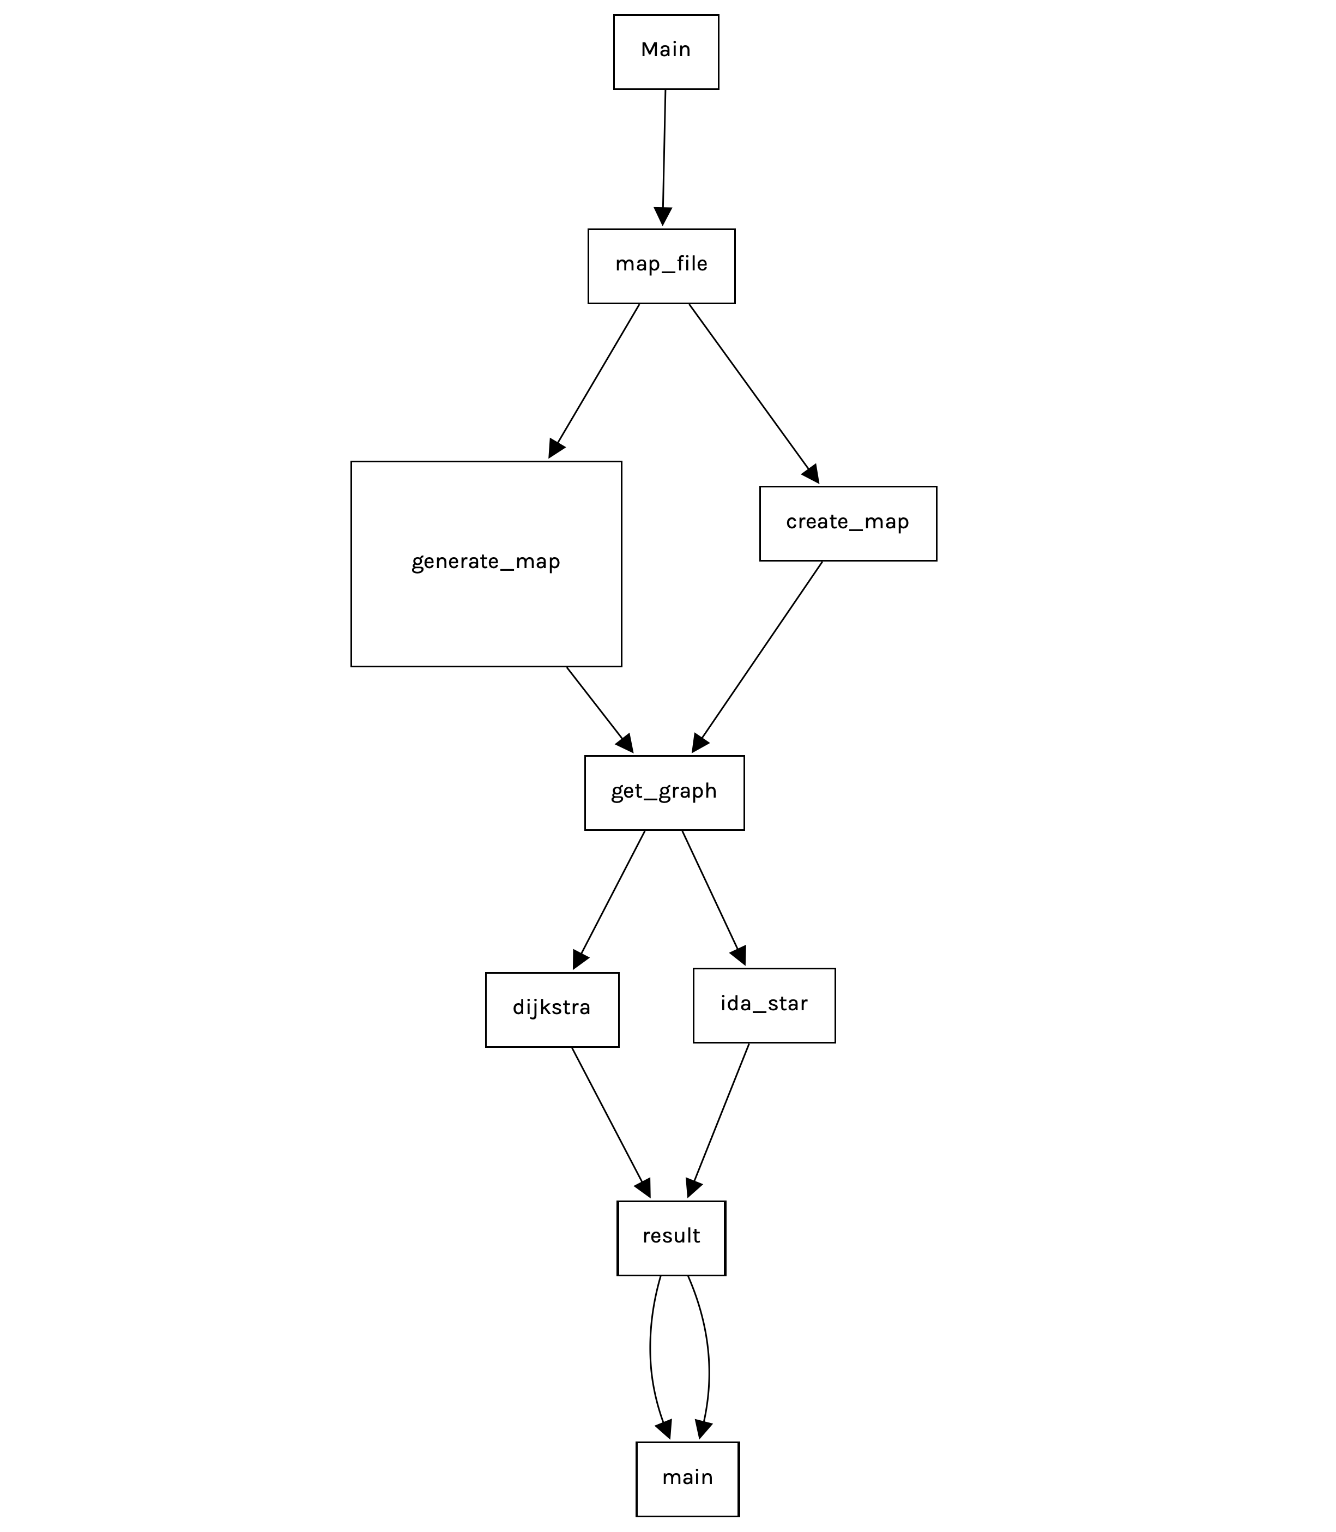
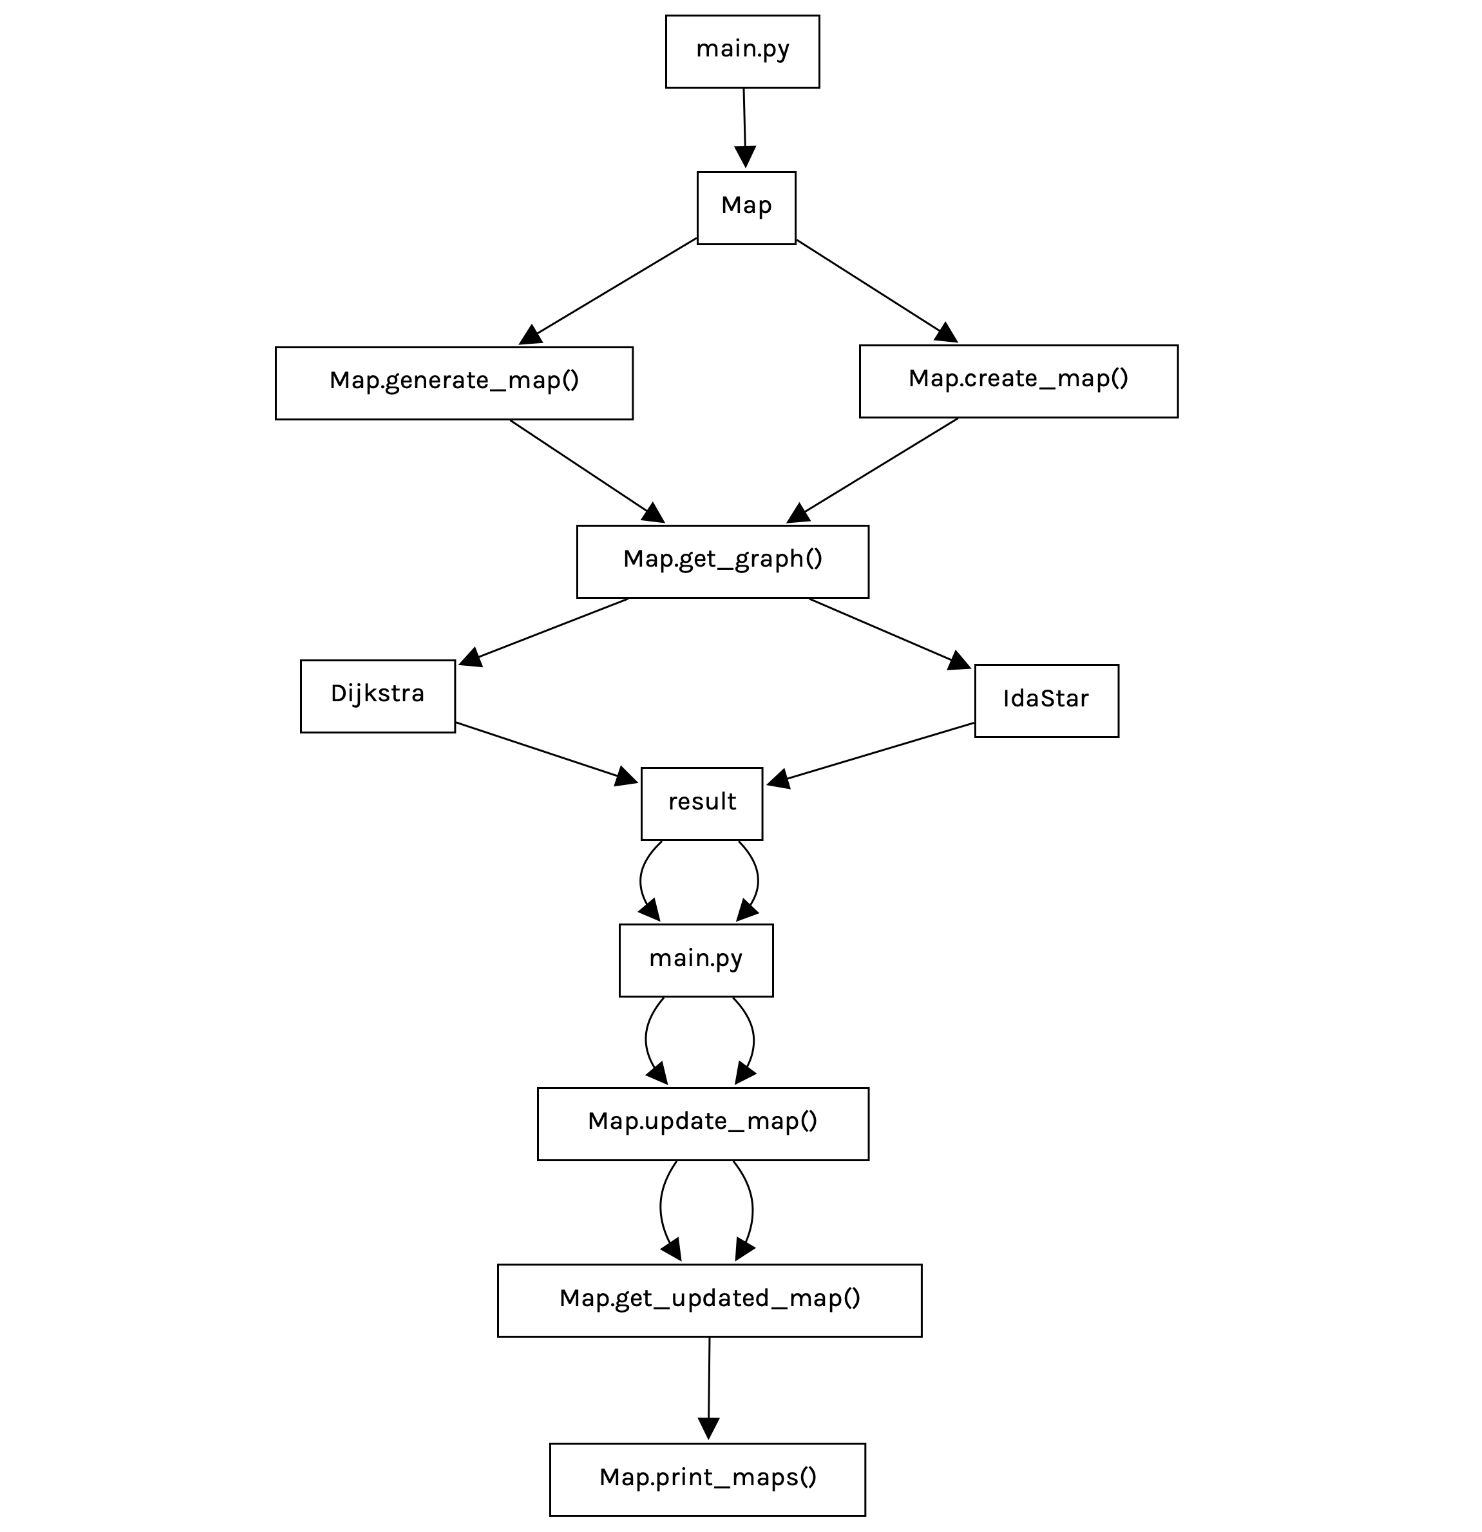
dokumentointi

diff --git a/dokumentointi/toteutusdokumentti.md b/dokumentointi/toteutusdokumentti.md
@@ -6,14 +6,45 @@
 - main-funktio kysyy käyttäjältä mitä karttaa vertailussa käytetään
 - main-funktio hakee map_file-luokasta käyttäjän valitsemaa karttaa vastaavan Map-olion sekä tulostaa kuvan kartasta
 - main-funktio kysyy käyttäjältä reitin aloitus- ja loppupisteen: ensin rivinumeron, jonka jälkeen käyttäjä voi valita rivin vapaana olevista pisteistä haluamansa
-- main-funktio luo Dijkstra-olion, jonka syötteenä on kartan verkko sekä kartan leveys, sekä IdaStar-olion, jonka syötteenä on kartan verkko
-- main-funktio kutsuu ida_star- ja dijkstra-funktiota, jotka molemmat palauttavat joko lyhimmän reitin pituuden tai tiedon siitä, että reittiä ei ole olemassa
-- main-funktio tulostaa mahdolliset lyhimmät reitit ja algoritmien käyttämän ajan
+- main-funktio luo Dijkstra- ja IDA*-oliot, joiden molempien syötteenä on kartan verkko, aloitus- ja lopetussolmu sekä kartan leveys
+- main-funktio kutsuu ida_star- ja dijkstra-funktiota, jotka molemmat palauttavat joko lyhyimmän reitin sekä sen pituuden, tai tiedon siitä, että reittiä ei ole olemassa
+- main-funktio tulostaa reittien pituuden, sekä reitit valitussa kartassa. Tämä haetaan map_file-luokasta. Vaihtoehtoisesti tulostaa tiedon siitä, ettei reittiä ole. Molemmissa tapauksissa tulostetaan algoritmien käyttämät ajat ja vertaillaan näitä toisiinsa
 
-## Saavutetut aika- ja tilavaativuudet
+## Aika- ja tilavaativuudet
+
+Dijkstra
+> Aikavaativuus: 
+> O(|E| + |V| log |V|), jossa V on solmujen lukumäärä ja E on kaarien lukumäärä
+>
+> Tilavaativuus: 
+> O(V^2), jossa V on solmujen lukumäärä
+
+IDA*
+> Aikavaativuus: 
+> IDA*-algoritmille ei ole yksiselitteistä parasta aikavaativuutta, vaan se riippuu painotetun verkon tyypistä ja heurestiikasta.
+>
+> Tilavaativuus:
+> O(d), jossa d on reitin pituus
 
 ## Suorituskyky- ja O-analyysivertailu
 
+| kartta | solmujen määrä | O(|E| + |V| log |V|)| Dijkstran 10:n toiston keskiarvo| IDA*:n 10:n toiston keskiarvo |
+|:------:|:--------------:|:-------------------:|:-------------------------------:|:-----------------------------:|
+|4x4     |16              |80                   |0.0001039                        |0.0002835                      |
+|8x8     |64              |410                  |0.0001215                        |0.0003617                      |
+|16x16   |256             |2350                 |0.0009472                        |0.0551402                      |
+|32x32   |1024            |11884                |0.0089881                        |1.1370921                      |
+|64x64   |4096            |59510                |0.1597089                        |0.0280987                      |
+
+Toistot tehtiin ohjelmassa olevilla kartoilla niiden ensimmäisestä vapaasta solmusta niiden viimeisimpään vapaaseen solmuun. Keskiarvojen mukaan Dijkstra on kaikilla syötteillä nopeampi, paitsi 64x64-kartalla, eli kun solmuja on 4096. Tuloksissa täytyy kuitenkin ottaa huomioon, että koska keskiarvomittaukset tehtiin vain tietyn kartan perusteella, voisivat ne olla erilaiset muilla kartoilla mitattuna.
+
 ## Työn mahdolliset puutteet ja parannusehdotukset
+Työhön voisi etsiä enemmän monipuolisempia karttoja. Myös verkon luomisen kartan pohjalta voisi toteuttaa tehokkaammin.
+Graafisesta puolesta saisi tehtyä siistimmän ja käyttäjäystävällisemmän.
+Työhön voisi myös lisätä ominaisuuden, jossa se käy reitin läpi automaattisesti n-kertaa ja laskee näistä molemmille algoritmeille niiden käyttämän aikojen keskiarvon, jolloin vertailu olisi astetta laadukkaampaa.
 
 ## Lähteet
+
+IDA*: https://en.wikipedia.org/wiki/Iterative_deepening_A*
+IDA* heurestiikka: https://www.growingwiththeweb.com/2012/06/a-pathfinding-algorithm.html 
+Dijkstra: https://en.wikipedia.org/wiki/Dijkstra%27s_algorithm

diff --git a/dokumentointi/maarittelydokumentti.md b/dokumentointi/maarittelydokumentti.md
@@ -4,13 +4,15 @@
 - Ohjelmointikieli: Python
 - Opinto-ohjelma: Tietojenkäsittelytieteen kandi
 
-Toteutan ohjelman, joka löytää verkon lyhyimmän reitin pisteestä toiseen kahdella eri algoritmillä. Kartassa voidaan liikkua sivusuuntiin sekä diagonaalisesti. Vertailen tässä Dijsktra ja IDA* algoritmia. Käytän ohjelmassa Movin AI LAb:in sivuilta ladattuja [MAPF-karttoja](https://www.movingai.com/benchmarks/mapf/index.html)
+Toteutan ohjelman, joka löytää verkon lyhyimmän reitin pisteestä toiseen kahdella eri algoritmillä. Kartassa voidaan liikkua sivusuuntiin sekä diagonaalisesti. Vertailen tässä Dijsktra ja IDA* algoritmia. Käytän ohjelmassa Movin AI LAb:in sivuilta ladattuja [MAPF-karttoja](https://www.movingai.com/benchmarks/mapf/index.html) sekä muutamia samassa muodossa olevia itseluotuja karttoja. 
 
 ## Algoritmit
 
 Valitsin Dijkstran algortimin, koska minulla on tästä jo etukäteen tietoa. IDA*-algoritmin valitsin, koska se vaikutti mielenkiintoiselta, sekä tarpeeksi erilaiselta Dijkstraan verrattuna. Näin siis suoritusteen vertailussakin on jotain järkeä.
 
 ### Dijkstra
+
+- algoritmi etsii alkupisteestä lyhyimmän reitin kaikkiin muihin pisteisiin. Se asettaa ensin etäisyydet alkupisteestä muihin pisteisiin äärettömäksi. Sen jälkeen se käy solmuja läpi kerroksittain parantaen niiden etäisyyttä, kunnes kaikki solmut on käyty läpi ja voidaann olettaa, että tiedossa on lyhin mahdollinen polku.
 
 Aikavaativuus: 
 O(|E| + |V| log |V|), jossa V on solmujen lukumäärä ja E on kaarien lukumäärä
@@ -20,9 +22,10 @@ O(V^2), jossa V on solmujen lukumäärä
 
 
 ### IDA*
+- Algoritmi käy solmuja läpi syvyyshaulla, jota on tehostettu heurestiikka-funktiolla. Syvyyshaun jokaisella kierroksella se siis karsii pois solmut, joiden arvioitu etäisyys ylittäisi annetun raja-arvon. Raja-arvo koostuu aluksi aloitussolmun heurestisesta arviosta, jonka jälkeen se suurenee jokaisella kierroksella vastaamaan vähimmäisarvoa kaikista edellisistä arvoista, jotka ylittivät raja-arvon.
 
 Aikavaativuus: 
-IDA* algoritmille ei ole yksiselitteistä parasta aikavaativuutta, vaan se riippuu painotetun verkon tyypistä ja heurestiikasta.
+IDA*-algoritmille ei ole yksiselitteistä parasta aikavaativuutta, vaan se riippuu painotetun verkon tyypistä ja heurestiikasta.
 
 Tilavaativuus:
 O(d), jossa d on reitin pituus
